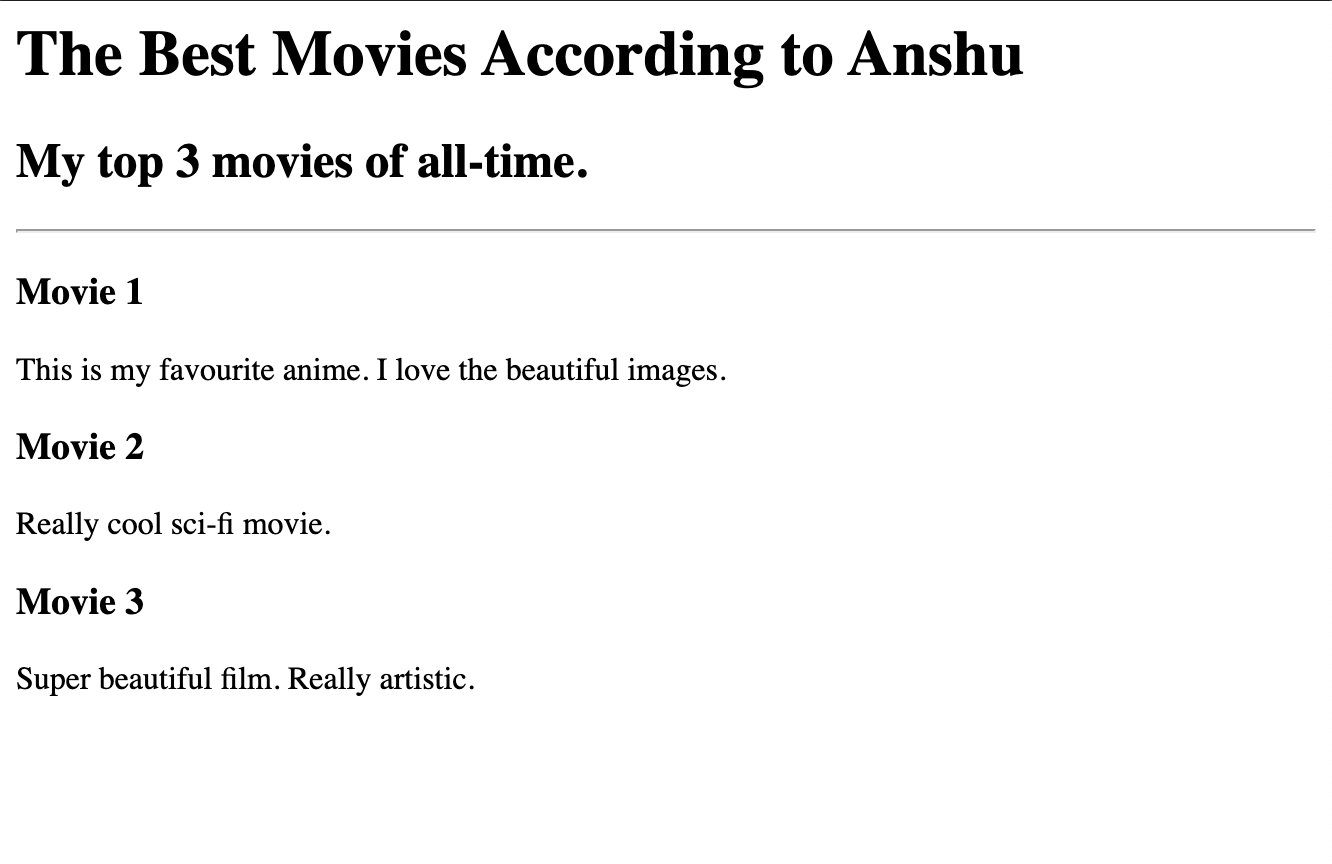
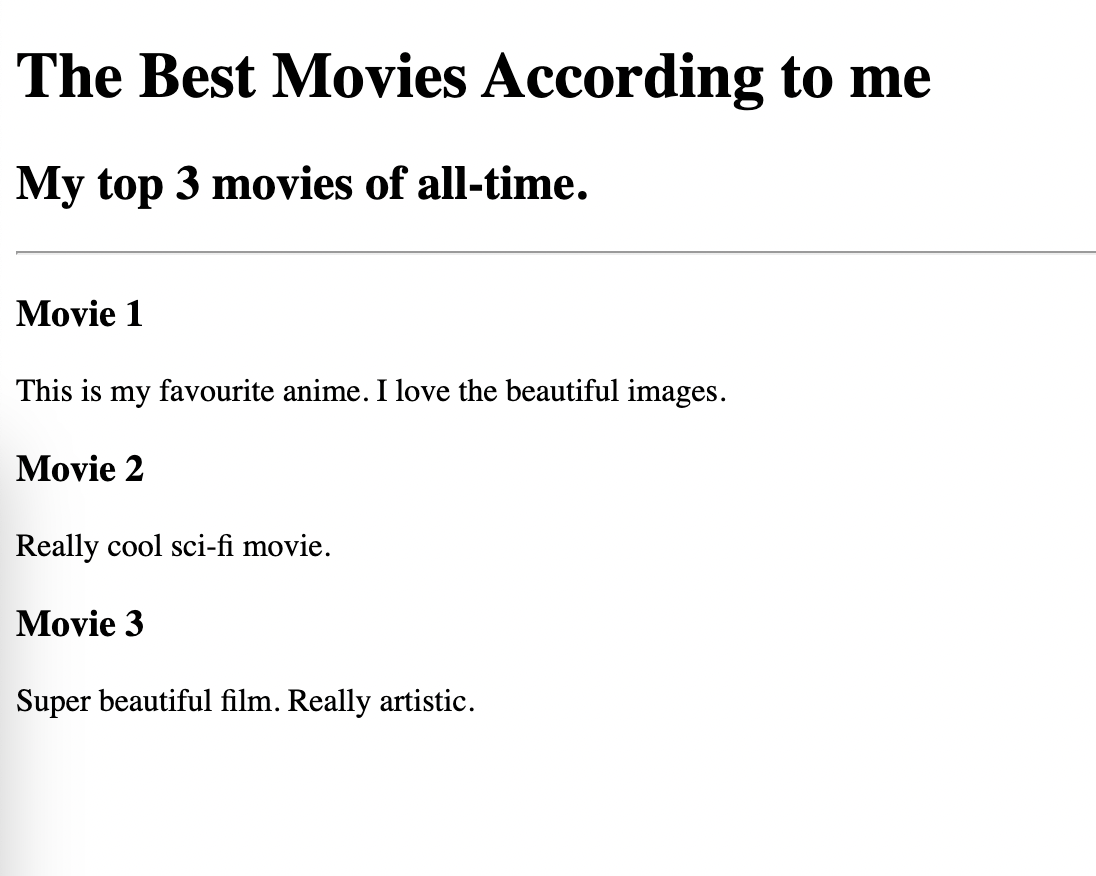
code updated

diff --git a/public/motivational-page.html b/public/motivational-page.html
@@ -1,0 +1,36 @@
+<!-- 
+  TODO: Create a motivational post website.
+Style it how ever you like. 
+Look at the goal image for inspiration.
+But it must have the following features:
+1. The main h1 text should be using the Regular Libre Baskerville Font from Google Fonts:
+  https://fonts.google.com/specimen/Libre+Baskerville
+2. The text should be white and background black.
+3. Add your own image into the images folder inside assets. It should have a 5px white border.
+4. The text should be center aligned.
+5. Create a div to contain the h1, p and img elements. Adjust the margins so that the image and text are centered on the page. 
+  Hint: You horizontally center a div by giving it a width of 50% and a margin-left of 25%.
+  Hint: Set the image to have a width of 100% so it fills the div. 
+6. Read about the text-transform property on MDN docs to make the h1 uppercase with CSS.
+  https://developer.mozilla.org/en-US/docs/Web/CSS/text-transform 
+-->
+
+<!DOCTYPE html>
+<html lang="en">
+<head>
+  <meta charset="UTF-8">
+  <link rel="preconnect" href="https://fonts.googleapis.com">
+  <link rel="preconnect" href="https://fonts.gstatic.com" crossorigin>
+  <link href="https://fonts.googleapis.com/css2?family=Libre+Baskerville&display=swap" rel="stylesheet">
+  <link href="style.css" rel="stylesheet" />
+  <title>motivational-page</title>
+  
+</head>
+<body class="motivational">
+  <div class="poster">
+    <img id="motivational-img" src="../assets/images/motivational-img.jpeg" />
+    <h1 id="dream-chase-id">dream chase</h1>
+    <p>Every small step taken towards your dream is big enough.</p>
+ </div>
+</body>
+</html>

diff --git a/index.html b/index.html
@@ -20,19 +20,30 @@ https://developer.mozilla.org/en-US/docs/Web/HTML/Element/img#attr-height -->
 <html lang="en">
 <head>
     <meta charset="UTF-8">
-    <meta name="viewport" content="width=device-width, initial-scale=1.0">
+    <link rel="stylesheet" href="./public/style.css" /> 
     <title>My portfolio</title>
 </head>
-<body>
-    <h1> Anshu's Portfolio</h1>
-    <h2> I'm a Web Developer</h2>
+<body id="main-body">
+    <h1 id="heading">A Web-Developer</h1>
     <hr />
 
-    <h3><a href="./public/movie-ranking.html">Movie Ranking Project</a></h3>
-    <img height="300" src="./assets/images/movie-ranking.png" />
+    <div class="project1-div">
+        <h3><a href="./public/movie-ranking.html">Movie Ranking Project</a></h3>
+        <img class="screenshot" src="./assets/images/movie-ranking.png" alt="movie-ranking-project-screenshot" />
+   </div>
 
-    <h3><a href="./public/birthday-invite.html">Birthday Invite Project</a></h3>
-    <img height="300" src="./assets/images/birthday-invite.png" />
+   <div class="project2-div">
+        <h3><a href="./public/birthday-invite.html">Birthday Invite Project</a></h3>
+        <img class="screenshot" src="./assets/images/birthday-invite.png" alt="birthday-invite-project-screenshot" />
+   </div>
+
+   <div class="project3-div">
+        <h3><a href=./public/motivational-page.html>Motivational Page</a></h3>
+        <img class="screenshot" src="./assets/images/motivational.png" alt="motivational-page-screenshot"/>    
+    </div> 
+
+    <a href="./public/about.html">About Me</a>
+    <a href="./public/contact.html">Contact Me</a>
 
 </body>
 </html>

diff --git a/public/style.css b/public/style.css
@@ -1,0 +1,48 @@
+
+    .motivational{
+      background-color: black;
+    }
+
+    #main-body{
+      background-color:cornflowerblue;
+      font-family:'Lucida Sans', 'Lucida Sans Regular';
+    }
+
+    #motivational-img{
+      width:50%;
+      height:50%;
+      border:5px solid white;
+    }
+
+    #dream-chase-id{
+      text-transform: capitalize;
+      font-size: 3rem;
+    }
+
+    .poster{
+       width:50%;
+       margin-left: 25%;
+       margin-top:100px;
+       color: white;
+       font-family: "Libre Baskerville", serif;
+       text-align: center;
+    }
+
+    .screenshot{
+      height:300px;
+      width:300px;
+      border:2px solid white;
+      padding:5px;
+    }
+
+    .project1-div{
+      margin: 0px 0px 0px 10px;
+    }
+
+    .project2-div{
+      margin:-380px 0px 0px 340px;
+    }
+
+    .project3-div{
+      margin:-380px 0px 0px 680px;
+    }

diff --git a/public/movie-ranking.html b/public/movie-ranking.html
@@ -1,9 +1,19 @@
-<h1>The Best Movies According to Anshu</h1>
-<h2>My top 3 movies of all-time.</h2>
-<hr />
-<h3>Movie 1</h3>
-<p>This is my favourite anime. I love the beautiful images.</p>
-<h3>Movie 2</h3>
-<p>Really cool sci-fi movie.</p>
-<h3>Movie 3</h3>
-<p>Super beautiful film. Really artistic.</p>
+<!DOCTYPE html>
+<html lang="en">
+<head>
+    <meta charset="UTF-8">
+    <title>Movie-ranking</title>
+    <link href="style.css" rel="stylesheet" />
+</head>
+<body>
+    <h1>The Best Movies According to me</h1>
+    <h2>My top 3 movies of all-time.</h2>
+    <hr />
+    <h3>Movie 1</h3>
+    <p>This is my favourite anime. I love the beautiful images.</p>
+    <h3>Movie 2</h3>
+    <p>Really cool sci-fi movie.</p>
+    <h3>Movie 3</h3>
+    <p>Super beautiful film. Really artistic.</p>
+</body>
+</html>

diff --git a/public/birthday-invite.html b/public/birthday-invite.html
@@ -1,3 +1,11 @@
+<!DOCTYPE html>
+<html lang="en">
+<head>
+  <meta charset="UTF-8">
+  <title>birthday-invite</title>
+  <link href="style.css" rel="stylesheet" />
+</head>
+<body>
 <!-- This is one possible solution -->
 <h1>It's My Birthday!</h1>
 <h2>On the 22nd August</h2>
@@ -15,4 +23,7 @@
 <h3>This is where you need to go:</h3>
 <a
   href="https://www.google.com/maps/@35.7040744,139.5577317,3a,75y,289.6h,87.01t,0.72r/data=!3m6!1e1!3m4!1sgT28ssf0BB2LxZ63JNcL1w!2e0!7i13312!8i6656">Google
-  map link</a>
+  map link
+</a>
+</body>
+</html>
